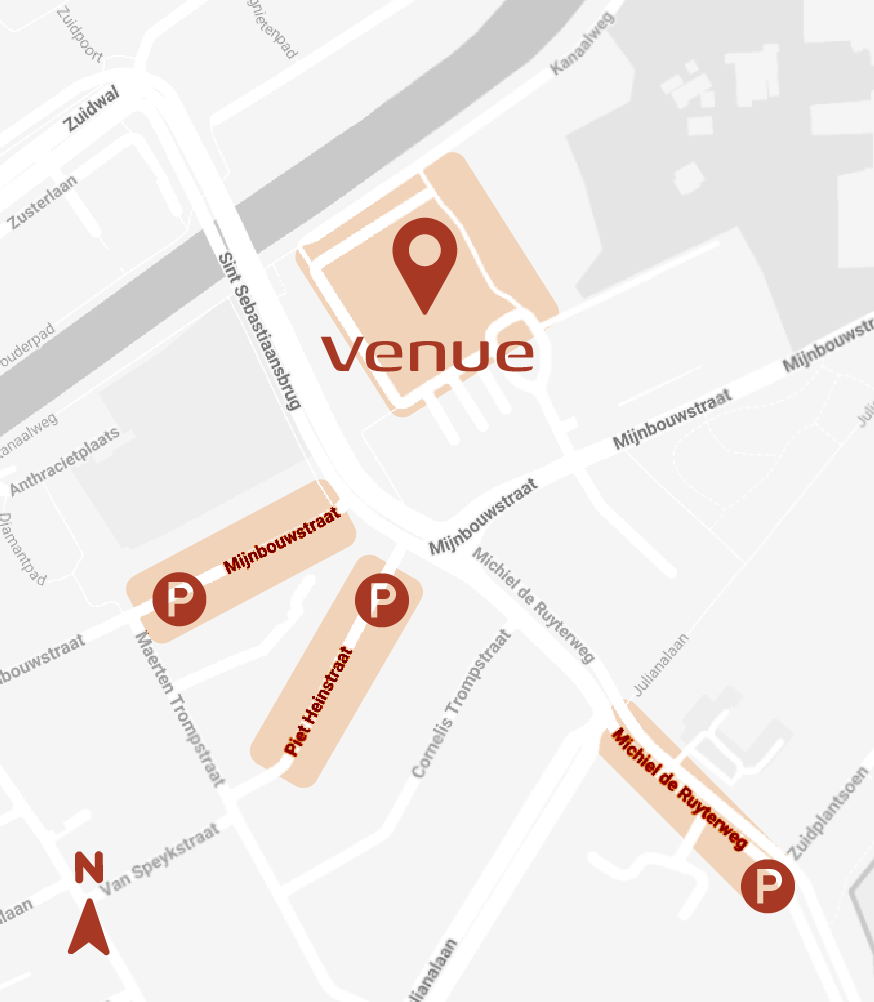
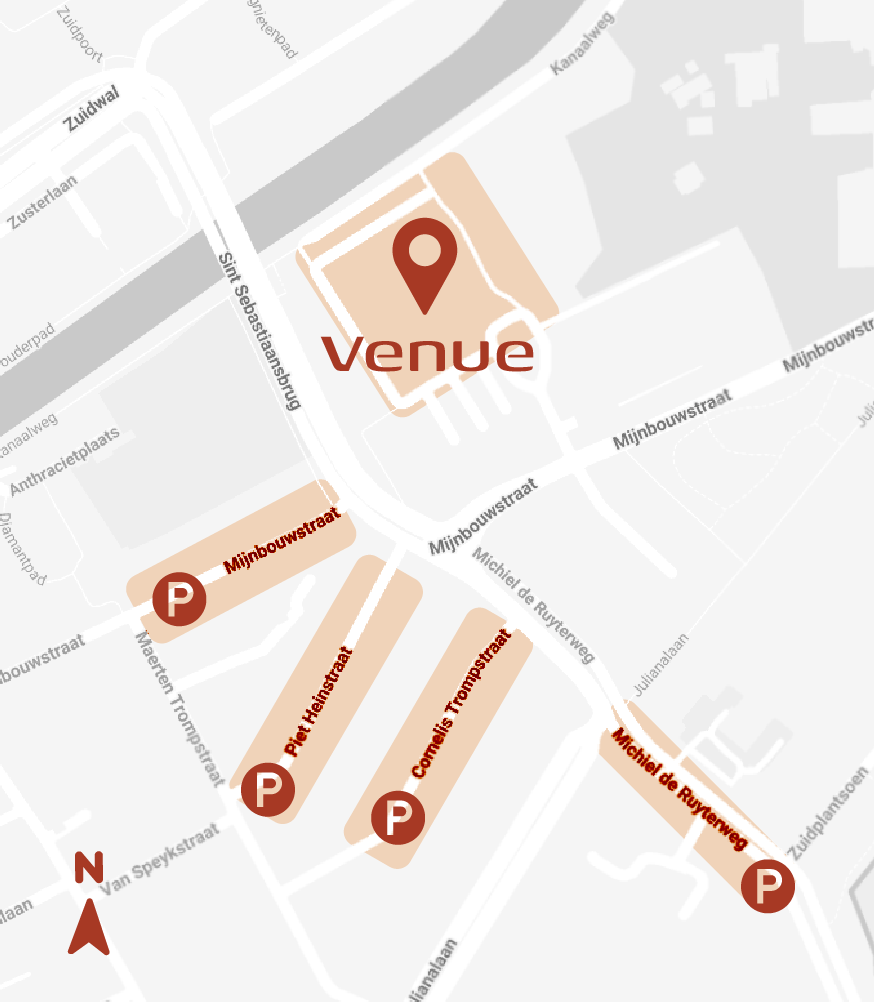
feat: integrate parking information into a new dedicated card component and update UI layout

Changed region(s): [[0.3707, 0.5878, 0.6178, 0.8663], [0.2471, 0.7425, 0.3707, 0.8353], [0.4016, 0.5569, 0.4634, 0.6497]]

diff --git a/src/App.tsx b/src/App.tsx
@@ -551,7 +551,8 @@ export default function App() {
           
           <div className="grid grid-cols-1 lg:grid-cols-2 gap-16 items-start">
             <div className="space-y-8">
-              <div className="bg-brand-cream/80 backdrop-blur-[2px] p-12 space-y-6 text-brand-ink">
+              {/* DUWO Common Room Card */}
+              <div className="bg-brand-cream/80 backdrop-blur-[2px] p-12 space-y-6 text-brand-ink border border-brand-ink/10">
                 <div>
                   <h4 className="font-serif text-2xl mb-2">DUWO Common Room</h4>
                   <p className="opacity-70 font-light italic text-sm">Professor Schermerhornstraat 4, 2628 PZ Delft</p>
@@ -577,6 +578,32 @@ export default function App() {
                   <span>{lang === 'en' ? 'Open in Google Maps' : '在 Google 地圖中開啟'}</span>
                 </a>
               </div>
+
+              {/* Car Park Info Card */}
+              <div className="bg-brand-cream/80 backdrop-blur-[2px] p-12 space-y-6 text-brand-ink border border-brand-ink/10">
+                <div>
+                  <h4 className="font-serif text-2xl mb-2">{lang === 'en' ? 'Car Park' : '停車資訊'}</h4>
+                  <p className="opacity-70 font-light italic text-sm">
+                    {lang === 'en' ? 'There are some parking spaces nearby:' : '會場周邊提供以下路段停車位：'}
+                  </p>
+                </div>
+                <div className="h-px w-full bg-brand-ink/10" />
+                <ul className="list-disc list-inside space-y-2 text-sm font-light text-brand-ink/80 leading-relaxed">
+                  <li>Mijnbouwstraat</li>
+                  <li>Piet Heinstraat</li>
+                  <li>Cornelis Trompstraat</li>
+                  <li>Michiel de Ruyterweg</li>
+                </ul>
+                <div className="pt-4">
+                  <div className="w-full bg-brand-ink/5 overflow-hidden backdrop-blur-[2px] border border-brand-ink/10 group">
+                    <img 
+                      src={`${import.meta.env.BASE_URL.replace(/\/$/, '')}/carr-park.png`} 
+                      alt="Parking Map" 
+                      className="w-full h-auto object-cover grayscale contrast-125 group-hover:grayscale-0 group-hover:contrast-100 transition-all duration-700 select-none pointer-events-none" 
+                    />
+                  </div>
+                </div>
+              </div>
             </div>
             
             <div className="flex flex-col gap-8">
@@ -590,20 +617,6 @@ export default function App() {
                     src="https://www.google.com/maps/embed?pb=!1m18!1m12!1m3!1d2454.862343213192!2d4.3734000769399895!3d51.998000474681765!2m3!1f0!2f0!3f0!3m2!1i1024!2i768!4f13.1!3m3!1m2!1s0x47c5b5be13c2b44b%3A0x8ac7c5b1307b2756!2sProfessor%20Schermerhornstraat%204%2C%202628%20PZ%20Delft!5e0!3m2!1sen!2snl!4v1714345000000!5m2!1sen!2snl" 
                     width="100%" height="100%" style={{ border: 0 }} allowFullScreen={true} loading="lazy" referrerPolicy="no-referrer-when-downgrade"
                    />
-                </div>
-              </div>
-
-              {/* Parking Map */}
-              <div className="flex flex-col gap-3">
-                <span className="text-xs font-bold uppercase tracking-widest text-brand-accent flex items-center gap-2">
-                  <ExternalLink size={14} /> {lang === 'en' ? 'Parking Map' : '停車地圖'}
-                </span>
-                <div className="w-full bg-brand-ink/5 overflow-hidden backdrop-blur-[2px] border border-brand-ink/10 group">
-                  <img 
-                    src={`${import.meta.env.BASE_URL.replace(/\/$/, '')}/carr-park.png`} 
-                    alt="Parking Map" 
-                    className="w-full h-auto object-cover grayscale contrast-125 group-hover:grayscale-0 group-hover:contrast-100 transition-all duration-700 select-none pointer-events-none" 
-                  />
                 </div>
               </div>
             </div>
